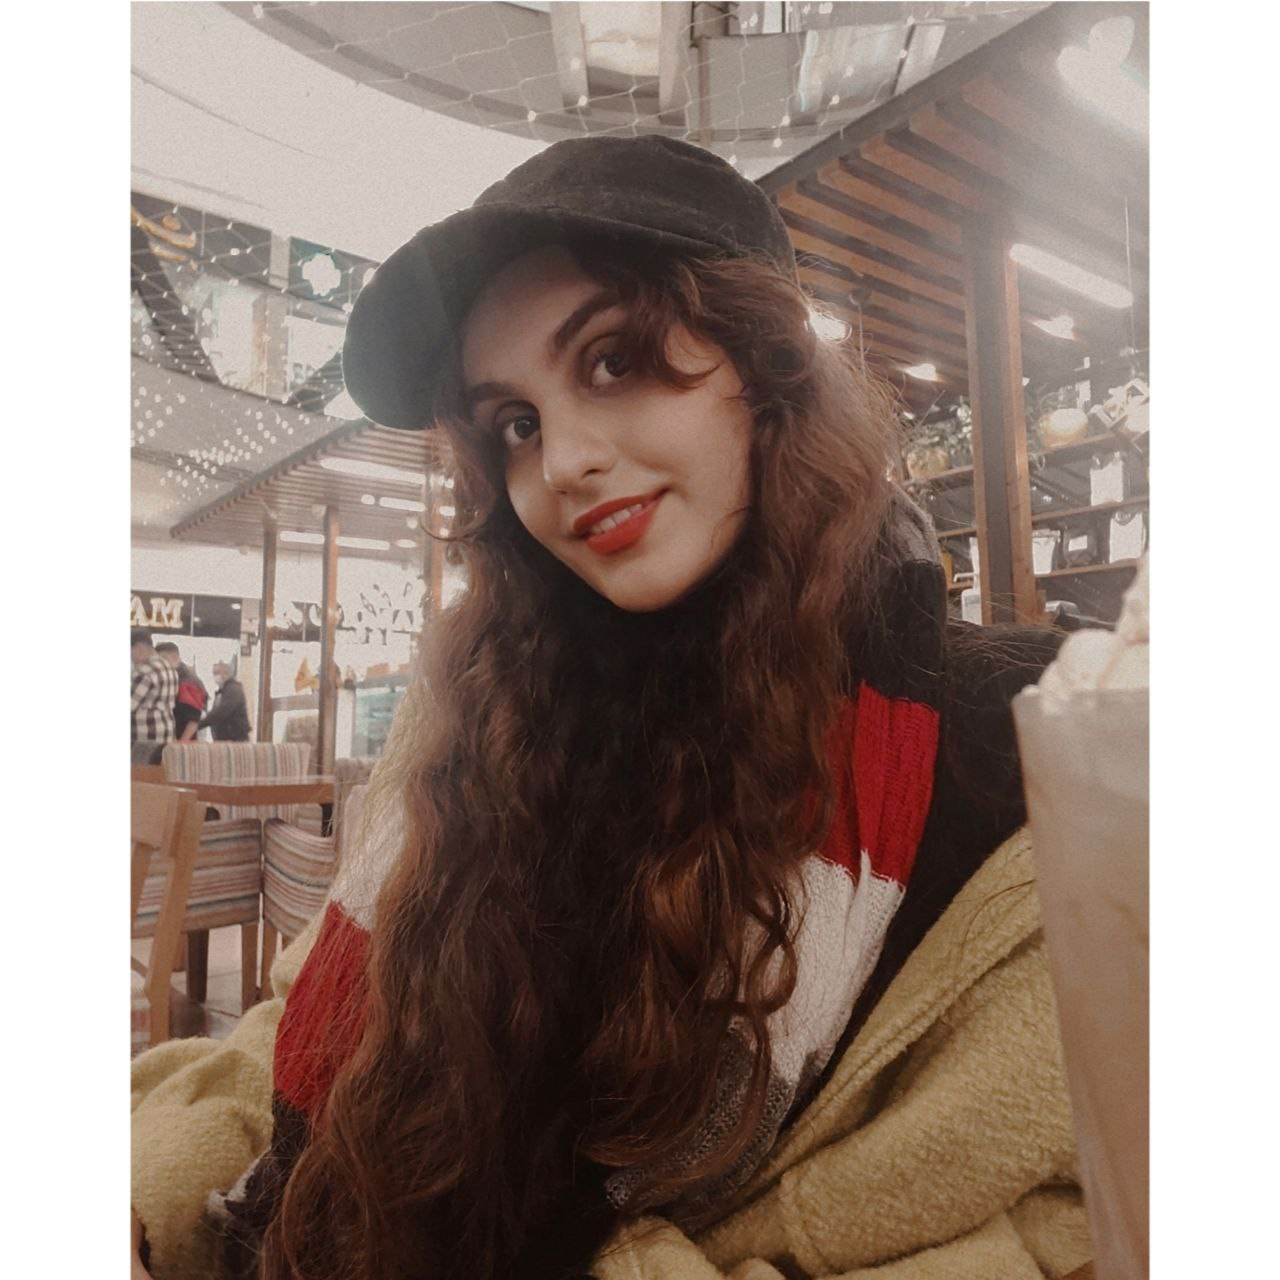
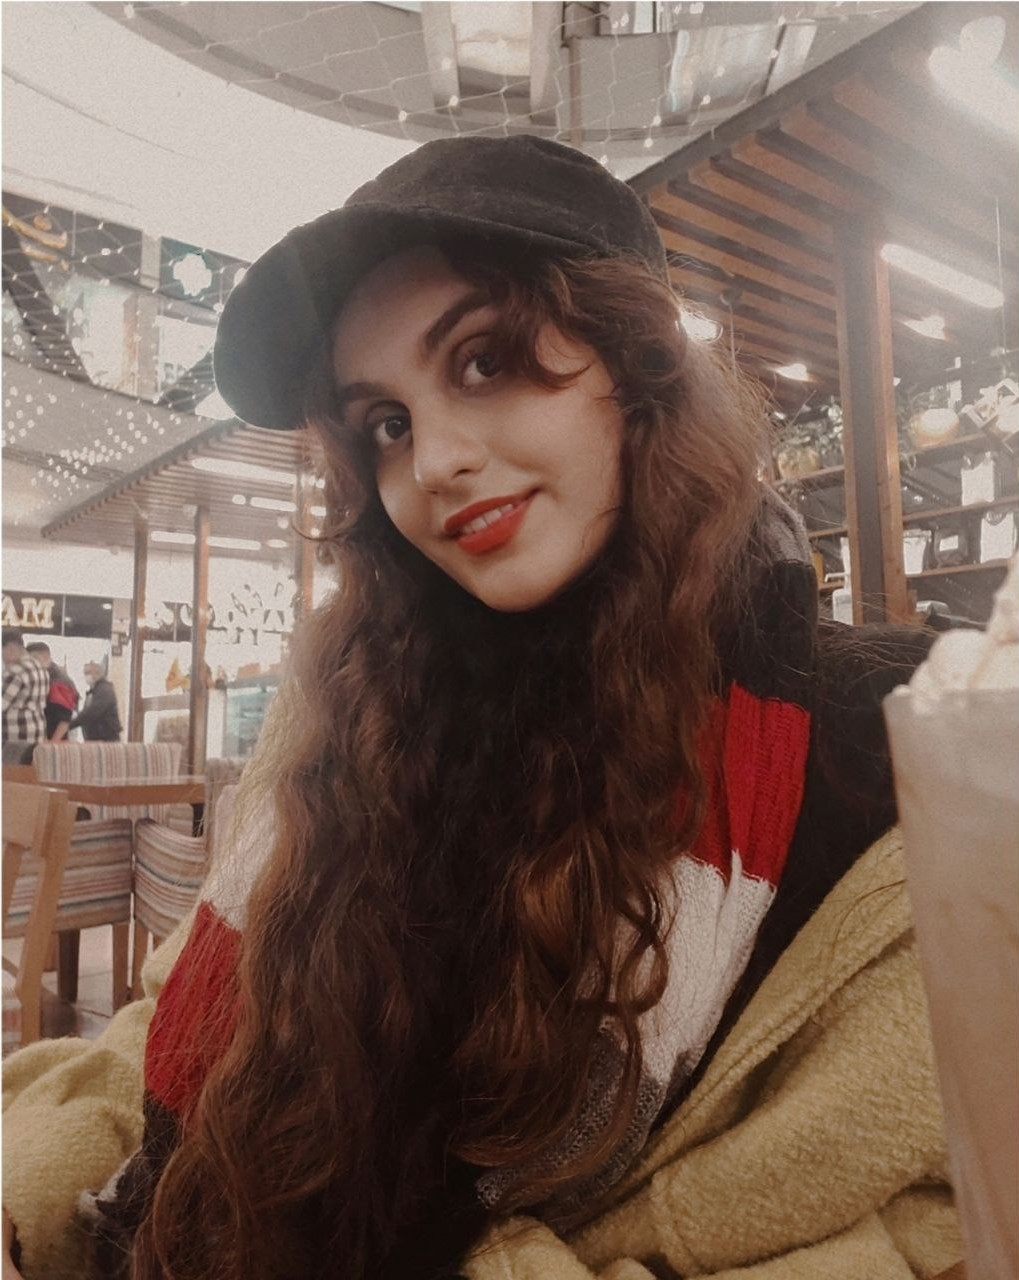
update my website

diff --git a/index.html b/index.html
@@ -79,7 +79,7 @@
                   <div class="row">
                     <div class="col-sm-6 col-md-5">
                       <div class="about-img">
-                        <img src="assets/img/ghazal.jpg" width="250" height="350">
+                        <img src="assets/img/ghazal.jpg" width="400" height="450">
                       </div>
                     </div>
                     <div class="col-sm-6 col-md-7">
